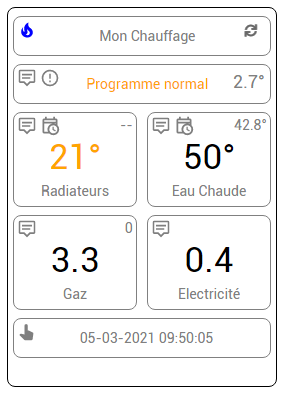
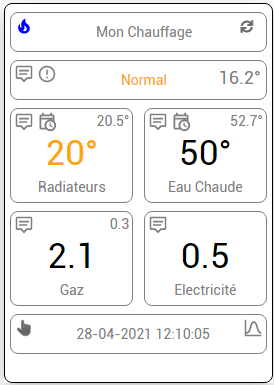
doc

Changed region(s): [[0.0, 0.0, 1.0, 1.0]]

diff --git a/core/template/dashboard/viessmann_view.html b/core/template/dashboard/viessmann_view.html
@@ -100,9 +100,9 @@
     <div class="gap-10"></div>
     <span class="classSousTitre#uid#">Etat du brûleur</span><span class="classValeur#uid#"
       id="idEtatBruleur#uid#"></span></br>
-    <span class="classSousTitre#uid#">Heures de fonctionnement</span><span class="classValeur#uid# history cursor"
+    <span class="classSousTitre#uid#">Fonctionnement total</span><span class="classValeur#uid# history cursor"
       data-cmd_id="#idHeatingBurnerHours#" id="idHeatingBurnerHours#uid#"></span></br>
-    <span class="classSousTitre#uid#">&nbsp;&nbsp;de la veille</span><span class="classValeur#uid# history cursor"
+    <span class="classSousTitre#uid#">Fonctionnement du jour (J-1)</span><span class="classValeur#uid# history cursor"
       data-cmd_id="#idHeatingBurnerHoursPerDay#" id="idHeatingBurnerHoursPerDay#uid#"></span></br>
     <span class="classSousTitre#uid#">Nombre de démarrages</span><span class="classValeur#uid# history cursor"
       data-cmd_id="#idHeatingBurnerStarts#" id="idHeatingBurnerStarts#uid#"></span></br>

diff --git a/core/template/mobile/viessmann_view.html b/core/template/mobile/viessmann_view.html
@@ -100,9 +100,9 @@
     <div class="gap-10"></div>
     <span class="classSousTitre#uid#">Etat du brûleur</span><span class="classValeur#uid#"
       id="idEtatBruleur#uid#"></span></br>
-    <span class="classSousTitre#uid#">Heures de fonctionnement</span><span class="classValeur#uid# history cursor"
+    <span class="classSousTitre#uid#">Fonctionnement total</span><span class="classValeur#uid# history cursor"
       data-cmd_id="#idHeatingBurnerHours#" id="idHeatingBurnerHours#uid#"></span></br>
-    <span class="classSousTitre#uid#">&nbsp;&nbsp;de la veille</span><span class="classValeur#uid# history cursor"
+    <span class="classSousTitre#uid#">Fonctionnement du jour (J-1)</span><span class="classValeur#uid# history cursor"
       data-cmd_id="#idHeatingBurnerHoursPerDay#" id="idHeatingBurnerHoursPerDay#uid#"></span></br>
     <span class="classSousTitre#uid#">Nombre de démarrages</span><span class="classValeur#uid# history cursor"
       data-cmd_id="#idHeatingBurnerStarts#" id="idHeatingBurnerStarts#uid#"></span></br>

diff --git a/docs/fr_FR/index.md b/docs/fr_FR/index.md
@@ -39,6 +39,10 @@
     
 ![Conf-Widget](../images/conf-widget.png "Conf-Widget")
 
+    Si les données température intérieure et/ou extérieure ne sont pas disponibles sur votre chaudière, il est possible 
+    d'introduire une commande info d'un équipement extérieur.
+
+![Conf-Datas](../images/datas.png "Conf-Datas")
         
 ## 3. Widget
 
@@ -136,6 +140,17 @@
             On retrouve le forçage eau chaude, programme confort, programme éco et programme vacances
 
             Notez bien qu'en fonction de la chaudière, certaines options pourraient ne pas être disponibles.
+
+## 3.1.5 Pavé courbe
+
+        Il affiche deux courbes
+
+            Le suivi des températures intérieure et de consigne en fonction de la température extérieure
+            La courbe de chauffe
+
+        Une icone permet de réinitialiser les mesures température intérieure et de consigne
+
+![Infos-courbe](../images/infos_courbe.png "Infos-courbe")
 
 # 4. Historisation
 

diff --git a/docs/fr_FR/changelog.md b/docs/fr_FR/changelog.md
@@ -53,4 +53,10 @@
 # 02-03-2021
 
     Ajout programme confort, éco et vacances
+
+# 25-04-2021
+
+    Ajout de la possibilité de récupérer les températures int/ext de capteurs extérieurs
+    Ajout des heures de fonctionnement journalier
+    Ajout d'une tuile courbes avec la mesure T°Int et T°Csg en fonction de la T°Ext et la courbe de chauffe
     
